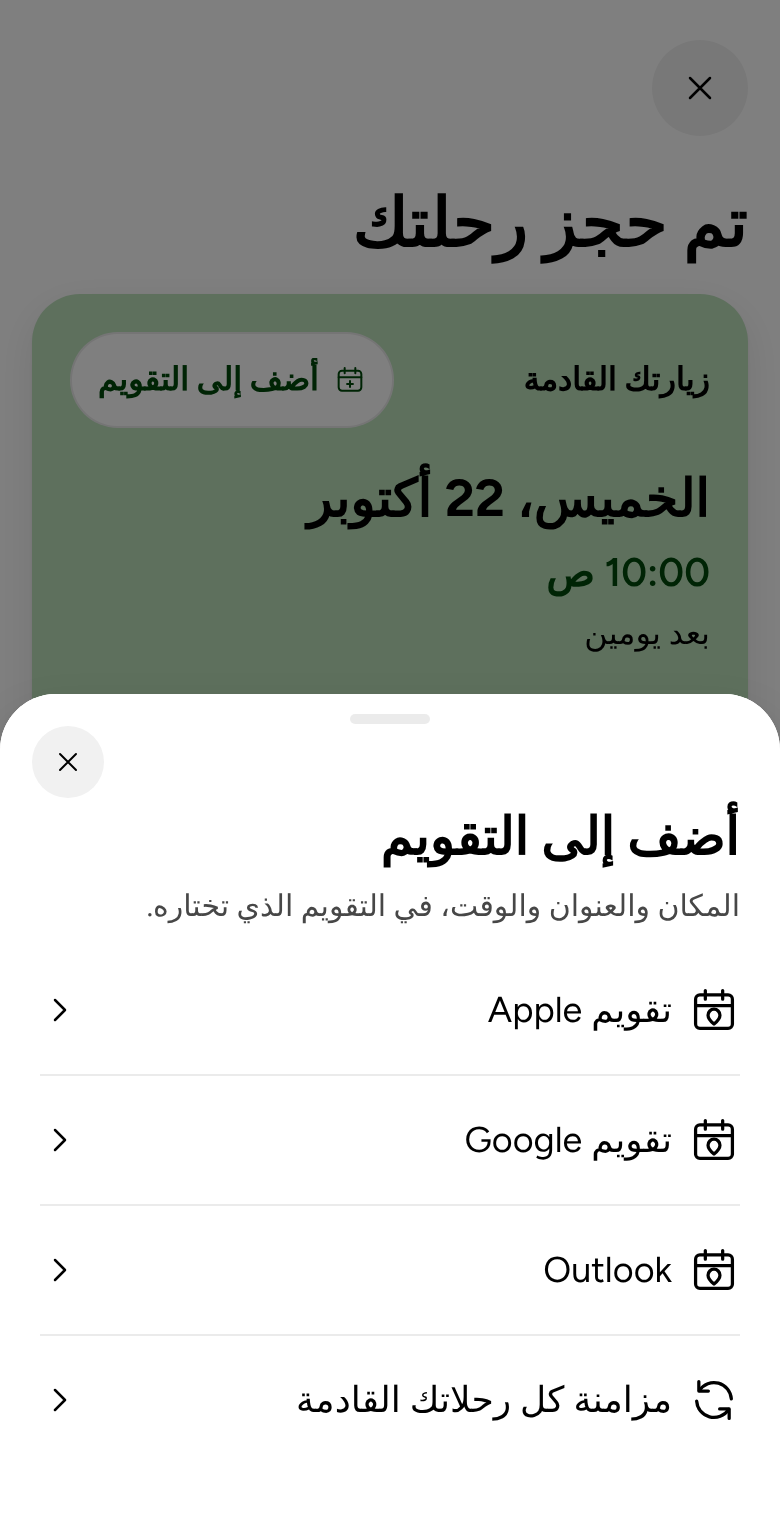
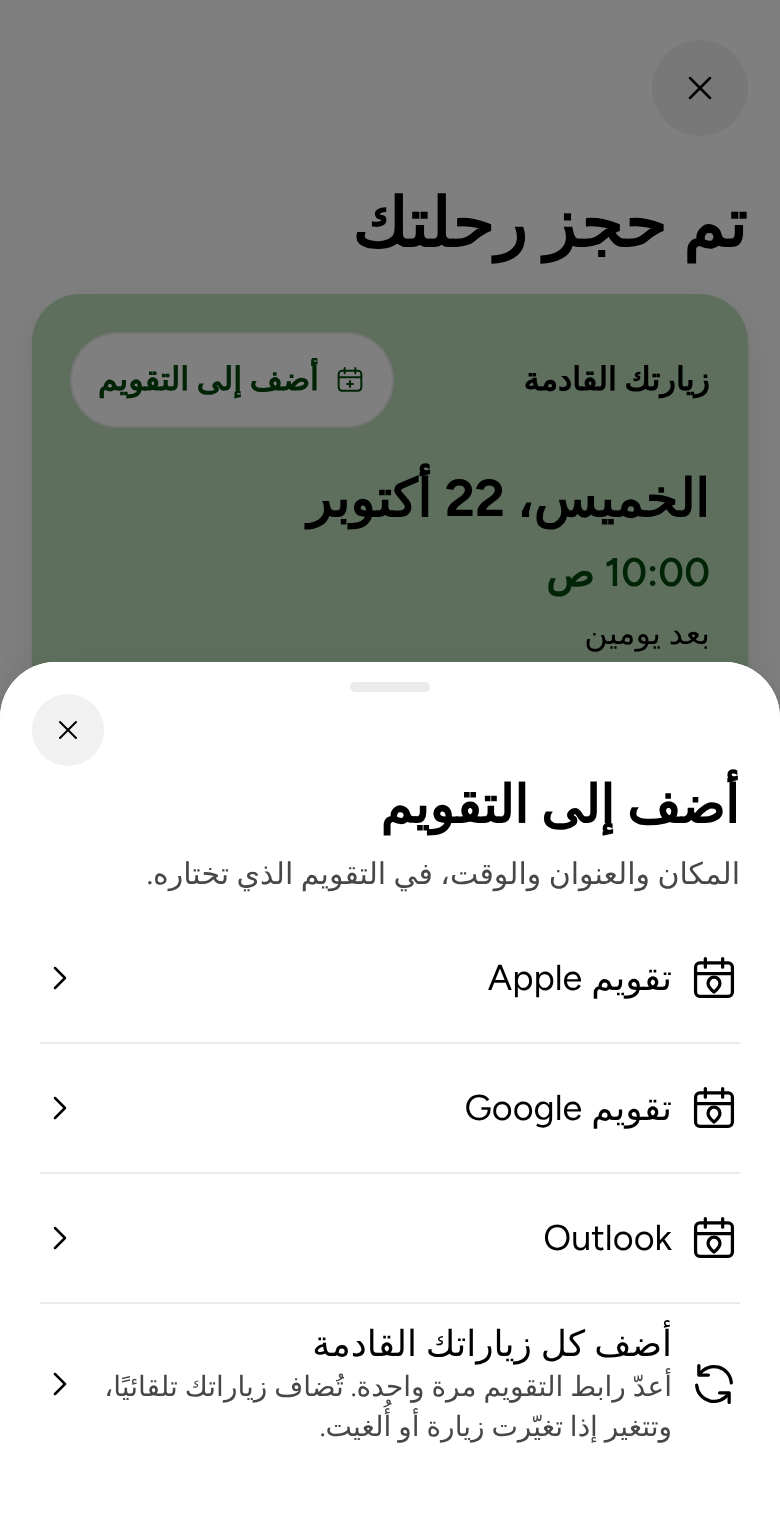
Plan C: Sage's words (4aef64a9) for the drawer row and its hint, Added's accessible name; pictures retaken

diff --git a/pam/apps/web/src/stories/components/CalendarPlan.stories.tsx b/pam/apps/web/src/stories/components/CalendarPlan.stories.tsx
@@ -40,7 +40,9 @@ const WORDS = {
     syncing: 'Goes to Apple Calendar',
     syncingName: 'Goes to Apple Calendar through your calendar link. Opens Calendar.',
     sync: 'Sync all future trip details?',
-    syncTrips: 'Sync all future trips', // stand-in; Sage signs it
+    // Sage's words (ledger 4aef64a9).
+    syncTrips: 'Add all your future visits',
+    syncHint: 'Set up a calendar link once. Your visits go in by themselves, and change if one moves or is cancelled.',
     sheetTitle: 'Add to calendar',
     done: 'Done',
     apple: 'Apple Calendar',
@@ -80,7 +82,8 @@ const WORDS = {
     syncing: 'تتم المزامنة مع تقويم Apple', // stand-in until Lena translates Sage's words
     syncingName: 'تتم المزامنة مع تقويم Apple عبر رابط التقويم. يفتح التقويم.', // stand-in
     sync: 'مزامنة تفاصيل كل رحلاتك القادمة؟',
-    syncTrips: 'مزامنة كل رحلاتك القادمة', // stand-in
+    syncTrips: 'أضف كل زياراتك القادمة', // stand-in until Lena's translation
+    syncHint: 'أعدّ رابط التقويم مرة واحدة. تُضاف زياراتك تلقائيًا، وتتغير إذا تغيّرت زيارة أو أُلغيت.', // stand-in
     sheetTitle: 'أضف إلى التقويم',
     done: 'تم',
     apple: 'تقويم Apple',
@@ -149,8 +152,8 @@ function AddSheet() {
               { id: 'apple', label: w.apple, icon: <TripsIcon width={26} height={26} />, onSelect: () => {} },
               { id: 'google', label: w.google, icon: <TripsIcon width={26} height={26} />, onSelect: () => {} },
               { id: 'outlook', label: w.outlook, icon: <TripsIcon width={26} height={26} />, onSelect: () => {} },
-              // Sync moves in here from under the card (Will, 18 October). Stand-in words until Sage's.
-              { id: 'sync', label: w.syncTrips, icon: <SyncIcon width={26} height={26} aria-hidden />, href: '/calendar/' },
+              // Sync moves in here from under the card (Will, 18 October): an action row like its neighbours, with its hint.
+              { id: 'sync', label: w.syncTrips, description: w.syncHint, icon: <SyncIcon width={26} height={26} aria-hidden />, href: '/calendar/' },
             ]}
           />
         </VStack>

diff --git a/pam/apps/web/src/stories/support/CalendarAction.tsx b/pam/apps/web/src/stories/support/CalendarAction.tsx
@@ -12,8 +12,8 @@ import { useI18n } from '@/lib/i18n';
  */
 // The day is the weekday long and the month short, from Intl in each language (Will, 18 October): en "Thursday, Oct 22", es "jueves, 22 oct"; Arabic has no short month, so it stays whole.
 const WORDS = {
-  en: { add: 'Add to calendar', added: 'Added to calendar', eyebrow: 'Your next visit', day: 'Thursday, Oct 22', time: '10:00 AM', countdown: 'In 2 days', change: 'Change appointment' },
-  ar: { add: 'أضف إلى التقويم', added: 'أُضيف إلى التقويم', eyebrow: 'زيارتك القادمة', day: 'الخميس، 22 أكتوبر', time: '10:00 ص', countdown: 'بعد يومين', change: 'غيّر الموعد' },
+  en: { add: 'Add to calendar', added: 'Added to calendar', addedName: 'Added to calendar. Opens Calendar settings.', eyebrow: 'Your next visit', day: 'Thursday, Oct 22', time: '10:00 AM', countdown: 'In 2 days', change: 'Change appointment' },
+  ar: { add: 'أضف إلى التقويم', added: 'أُضيف إلى التقويم', addedName: 'أُضيف إلى التقويم. يفتح إعدادات التقويم.', eyebrow: 'زيارتك القادمة', day: 'الخميس، 22 أكتوبر', time: '10:00 ص', countdown: 'بعد يومين', change: 'غيّر الموعد' },
 };
 export const useCalendarWords = () => (useI18n().locale === 'ar' ? WORDS.ar : WORDS.en);
 
@@ -35,7 +35,7 @@ const styles = stylex.create({
 export function CalendarAction({ added = false }: { readonly added?: boolean }) {
   const w = useCalendarWords();
   return added ? (
-    <Button label={w.added} variant="ghost" href="/calendar/" icon={<CalendarCheckIcon width={22} height={22} aria-hidden />} xstyle={styles.added} />
+    <Button label={w.added} aria-label={w.addedName} variant="ghost" href="/calendar/" icon={<CalendarCheckIcon width={22} height={22} aria-hidden />} xstyle={styles.added} />
   ) : (
     <Button label={w.add} variant="secondary" icon={<CalendarAddIcon width={22} height={22} aria-hidden />} xstyle={styles.add} />
   );
